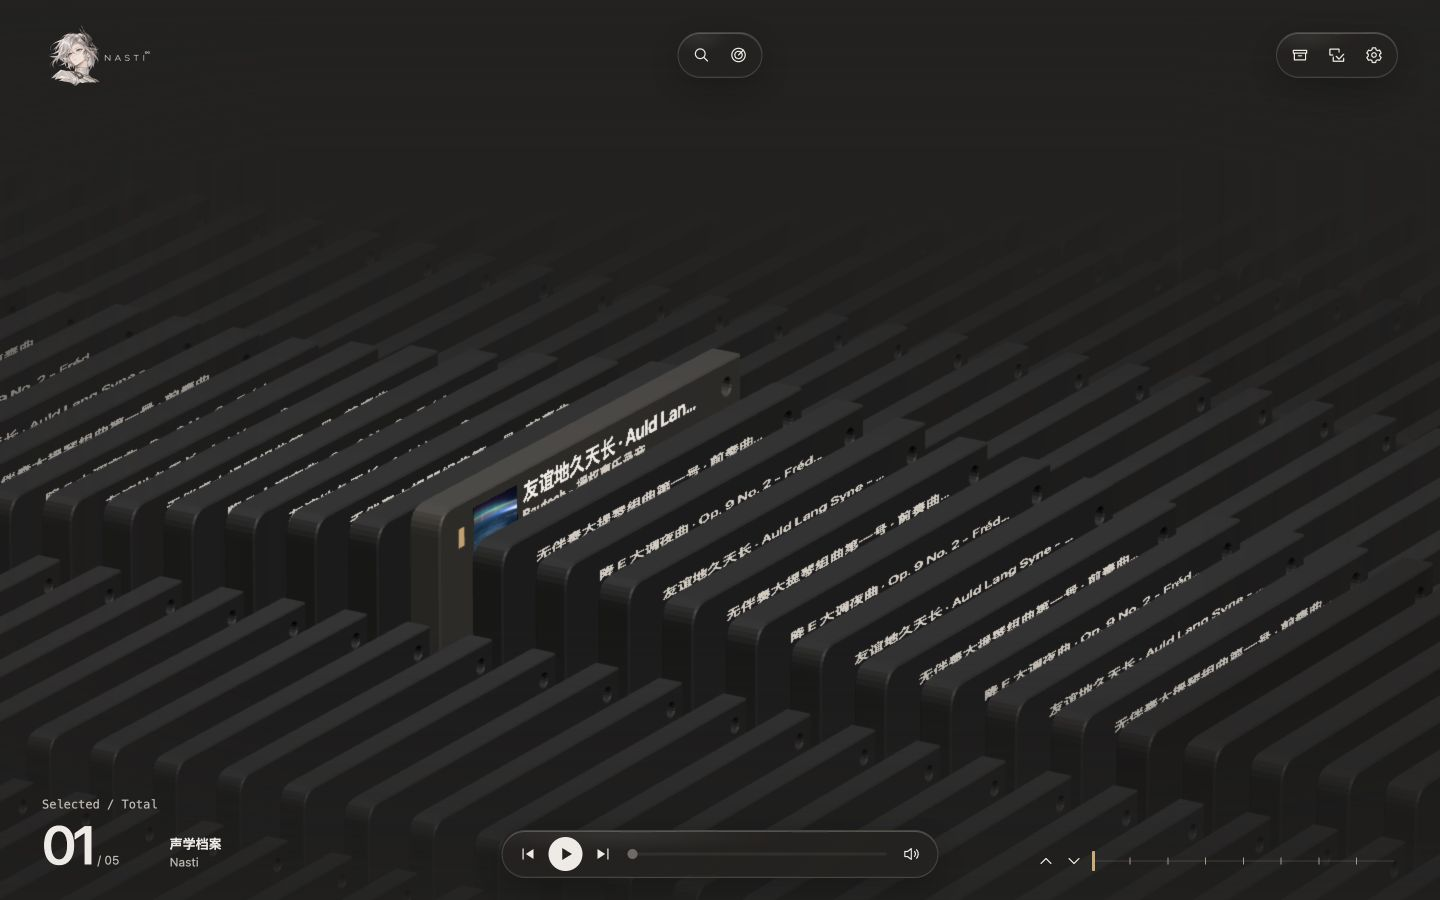
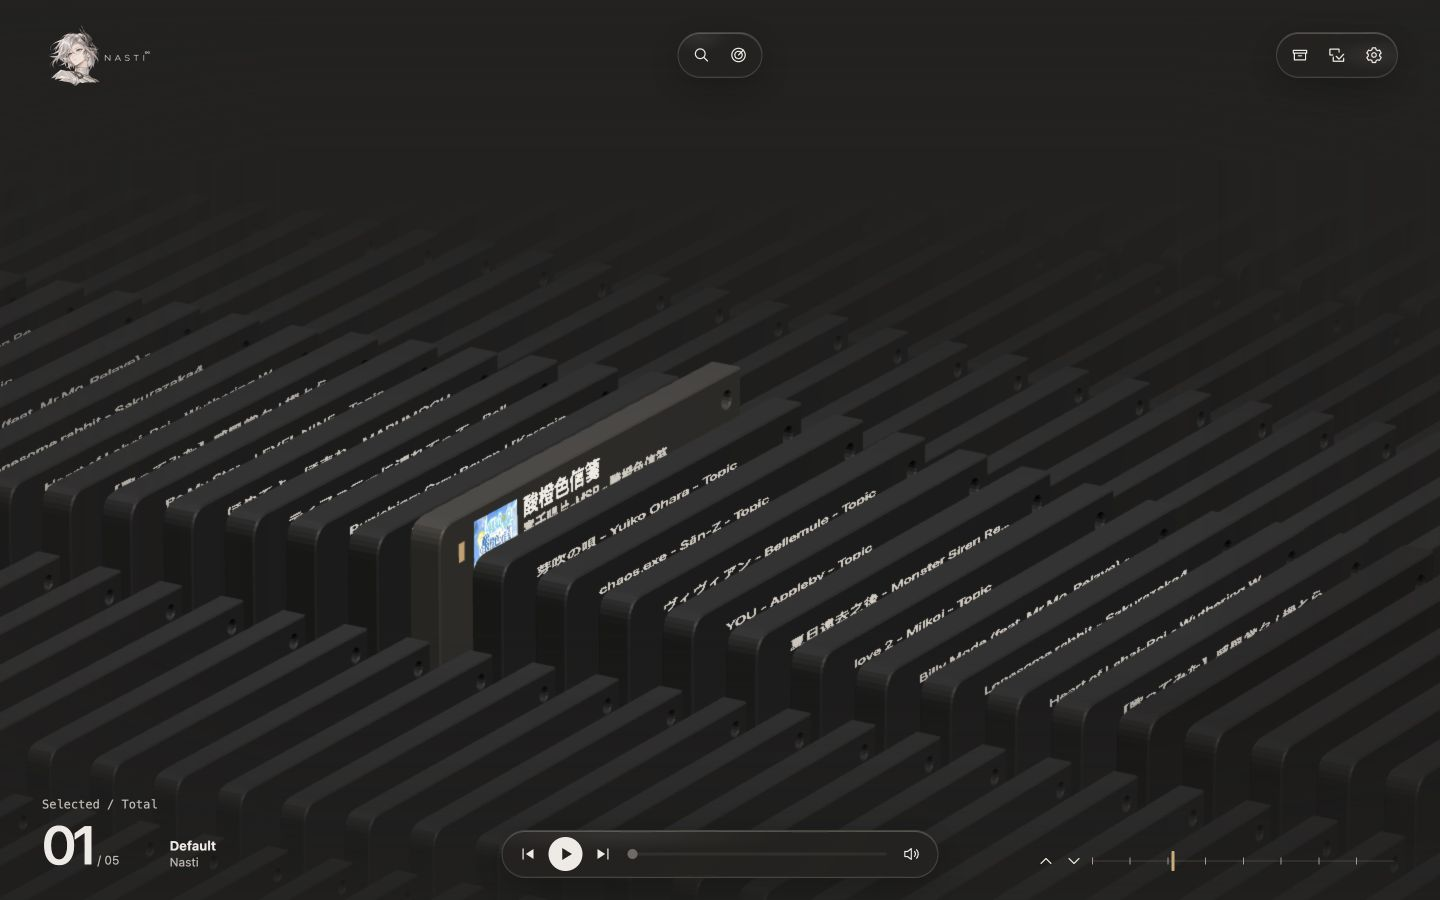
docs: show the selected track on the Nasti homepage

diff --git a/README.md b/README.md
@@ -33,7 +33,7 @@
 <p>
   <picture>
     <source media="(prefers-color-scheme: dark)" srcset="docs/media/readme/archive-dark.jpg">
-    <img src="docs/media/readme/archive-light.jpg" width="836" alt="Three-dimensional archive array with a track pulled up from its playlist">
+    <img src="docs/media/readme/archive-light.jpg" width="836" alt="Three-dimensional home archive with 酸橙色信箋 selected">
   </picture>
 </p>
 
@@ -43,20 +43,21 @@
 </p>
 
 <p>
+  The home preview uses the imported playlist’s track metadata with <em lang="zh-CN">酸橙色信箋</em> selected.<br>
+  <span lang="zh-CN">首页预览采用实际导入的歌单曲目信息，选中《酸橙色信笺》。</span><br>
+  <a href="https://monster-siren.hypergryph.com/music/880385">Monster Siren Records · Cover art / 塞壬唱片 · 封面来源</a>
+</p>
+
+<p>
   <picture>
     <source media="(prefers-color-scheme: dark)" srcset="docs/media/readme/playback-and-playlist-dark.jpg">
-    <img src="docs/media/readme/playback-and-playlist-light.jpg" width="836" alt="Playback detail with synchronized lyrics, followed by a real 545-track YouTube Music import">
+    <img src="docs/media/readme/playback-and-playlist-light.jpg" width="836" alt="Playback detail showing cover art and synchronized lyrics">
   </picture>
 </p>
 
 <p>
   Open a track to see its cover art and follow the lyrics in sync.<br>
   <span lang="zh-CN">打开歌曲档案，看唱片封面，跟着播放进度读歌词。</span>
-</p>
-
-<p>
-  Import playlists and open their tracks in YouTube Music. The screenshot shows a real 545-track playlist saved to Nasti.<br>
-  <span lang="zh-CN">导入歌单后，可在 YouTube Music 中打开歌曲。图中是实际导入 Nasti 的 545 首歌单。</span>
 </p>
 
 <p>
